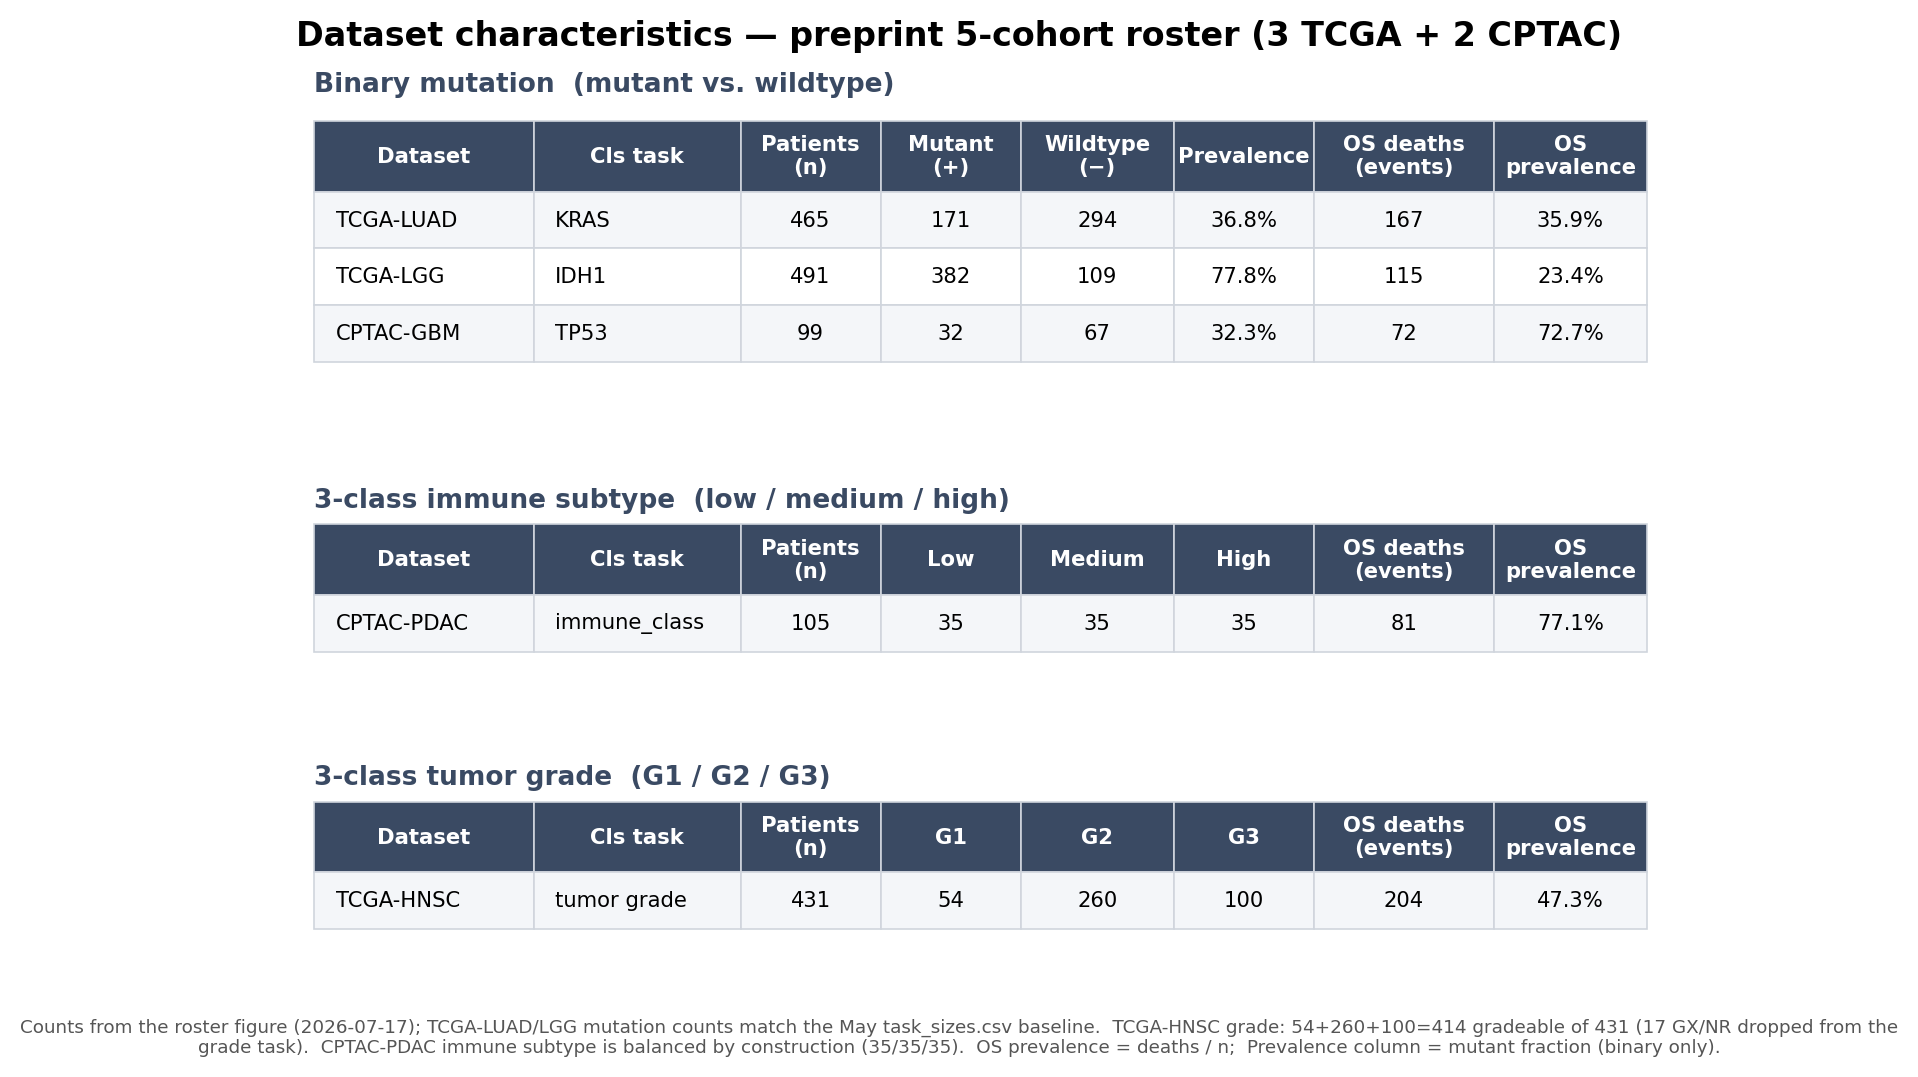
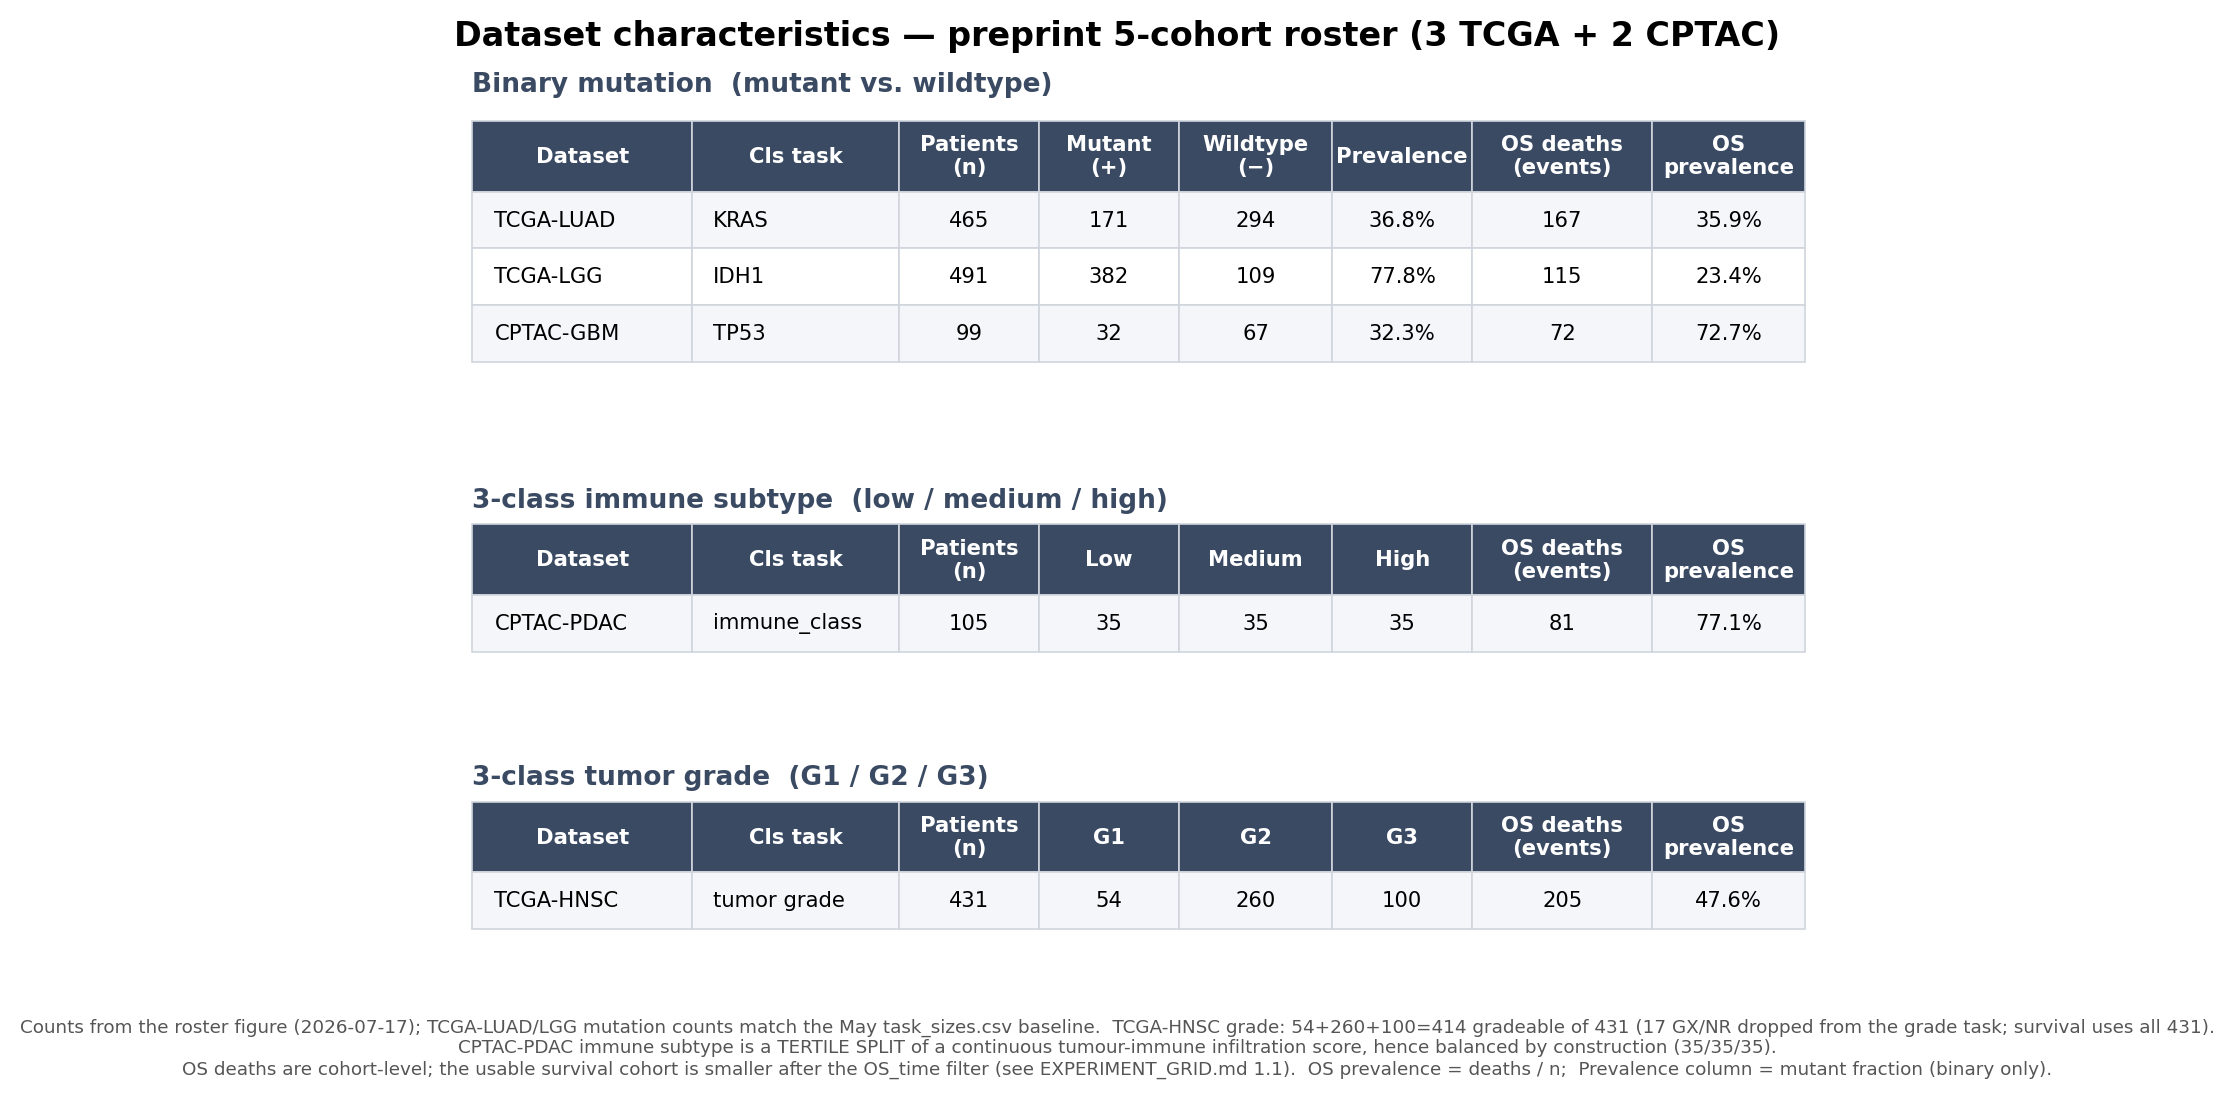
docs(preprint): reconcile roster numbers and reopen the regression premise
Three conflicts arose where the #35 doc reconciliation and the pre-launch review
met. All are in the preprint's roster tables, so they move together.

HNSC OS deaths read 204 in every roster table, but the review's manifest-derived
attrition table gives "431 / 205". 205 is the cohort count and 204 the
post-OS_time-filter usable count -- and the roster tables quote raw everywhere
else (LUAD 167, LGG 115), so 204 was simply wrong there. Corrected to 205 /
47.6% across PLAN, EXECUTION_PLAN, EXPERIMENT_GRID and the regenerated Table-1
figure; the attrition prose now notes HNSC loses a death too, not just LUAD/LGG.

The grid is 33 exps/dataset configured but 30 runnable today -- conch_v15 is
unextracted, so the TITAN arm has no inputs. Both figures now appear with the
distinction stated, which makes explicit that TITAN gates the encoder axis
rather than being optional.

Regression: #35 hardened the deferral to "unconditionally", but that premise had
only been tested against ovarian HRD. CPTAC-PDAC's immune_class is a tertile
split of a continuous infiltration score -- a binned continuous target already
in the roster. The ovarian half stays closed; whether PDAC's underlying score is
recoverable is now recorded as unchecked, with the consequence stated.

Also carries the review's Table-1 asks: HNSC shows 414 gradeable of 431, and
PDAC's 35/35/35 is disclosed as a tertile split rather than left looking
suspiciously balanced.

diff --git a/paper/preprint/figures/make_dataset_table.py b/paper/preprint/figures/make_dataset_table.py
@@ -94,7 +94,7 @@ IMMUNE = [
 ]
 # 3-class tumor grade:  (dataset, task, n, g1, g2, g3, os_deaths, os_pct)
 GRADE = [
-    ("TCGA-HNSC", "tumor grade", 431, 54, 260, 100, 204, 47.3),
+    ("TCGA-HNSC", "tumor grade", 431, 54, 260, 100, 205, 47.6),
 ]
 
 # 8 columns, shared width profile across all three sub-tables (sums ~1.0).
@@ -133,8 +133,11 @@ def table1():
                  fontsize=12, fontweight="bold", y=0.98)
     foot = ("Counts from the roster figure (2026-07-17); TCGA-LUAD/LGG mutation counts match the May "
             "task_sizes.csv baseline.  TCGA-HNSC grade: 54+260+100=414 gradeable of 431 (17 GX/NR "
-            "dropped from the\ngrade task).  CPTAC-PDAC immune subtype is balanced by construction "
-            "(35/35/35).  OS prevalence = deaths / n;  Prevalence column = mutant fraction (binary only).")
+            "dropped from the grade task; survival uses all 431).\nCPTAC-PDAC immune subtype is a TERTILE "
+            "SPLIT of a continuous tumour-immune infiltration score, hence balanced by construction "
+            "(35/35/35).\nOS deaths are cohort-level; the usable survival cohort is smaller after the "
+            "OS_time filter (see EXPERIMENT_GRID.md 1.1).  OS prevalence = deaths / n;  Prevalence "
+            "column = mutant fraction (binary only).")
     fig.text(0.5, 0.02, foot, ha="center", va="top", fontsize=6.6, color="#555")
     p = os.path.join(OUT, "table1_dataset_stats.png")
     fig.savefig(p, bbox_inches="tight")

diff --git a/paper/preprint/PLAN.md b/paper/preprint/PLAN.md
@@ -7,12 +7,13 @@ material: [`../references/`](../references/). Compiled 2026-07-01; §5 resolved
 2026-07-21. **Counts are owned by [`EXPERIMENT_GRID.md`](EXPERIMENT_GRID.md)** —
 where this file disagrees on a number, that one wins._
 
-> **Open items gating the campaign — see [`PRELAUNCH_REVIEW.md`](PRELAUNCH_REVIEW.md).**
-> Two decisions in this document are contradicted by our own evidence and are
-> **not yet resolved**: §3/§4's *encoder ≫ aggregator* headline (our 210-config
-> baseline measured the reverse on classification), and §2's claim that `ab_mil`
-> results already exist on disk (coverage is essentially zero). The review also
-> records two survival bugs found and fixed on 2026-07-21.
+> **Open item gating the campaign — see [`PRELAUNCH_REVIEW.md`](PRELAUNCH_REVIEW.md).**
+> One decision in this document is contradicted by our own evidence and is
+> **not yet resolved**: §3/§4's *encoder ≫ aggregator* headline — our 210-config
+> baseline measured the reverse on classification (encoder spread 2.0 pts vs
+> aggregator 3.0 pts). See PRELAUNCH_REVIEW §3, item O1. That review also flagged §2's
+> `ab_mil` "free re-aggregation" claim; **that one is now fixed** — §2 below
+> budgets both additions as from-scratch training.
 
 ## Status: confirmed pivot
 
@@ -33,7 +34,7 @@ across two data sources:
 | TCGA-LGG | TCGA | IDH1 mutation | binary | 491 | 115 |
 | CPTAC-GBM | CPTAC | TP53 mutation | binary | 99 | 72 |
 | CPTAC-PDAC | CPTAC | immune subtype (low/med/high) | 3-class | 105 | 81 |
-| TCGA-HNSC | TCGA | tumor grade (G1/G2/G3) | 3-class | 431 | 204 |
+| TCGA-HNSC | TCGA | tumor grade (G1/G2/G3) | 3-class | 431 (414 gradeable) | 205 |
 
 Selection now prioritizes **classification-task diversity** (binary mutation +
 3-class immune subtype + 3-class tumor grade) and **cross-source coverage**
@@ -214,13 +215,24 @@ items.)
   chosen per cohort. Too much new surface for the fast preprint; lands in
   Phase 2.
 
-  *The exception that could have pulled it in is now closed.* The candidate was
-  **ovarian HRD** — natively a continuous genomic-scar score. The 2026-07-03
-  audit killed it twice over: `HRD_label` is a **pre-binarized 0/1 manifest
-  column** with no threshold or regression logic anywhere in the code, and the
-  ovarian data root is **not on fir** at all. Ovarian is also not one of the 5
-  roster cohorts. Regression is Phase 2, unconditionally. See
-  [`EXECUTION_PLAN.md`](EXECUTION_PLAN.md) §0.
+  *The ovarian exception is closed; a second candidate is open.* The original
+  candidate was **ovarian HRD** — natively a continuous genomic-scar score. The
+  2026-07-03 audit killed it twice over: `HRD_label` is a **pre-binarized 0/1
+  manifest column** with no threshold or regression logic anywhere in the code,
+  and the ovarian data root is **not on fir** at all. Ovarian is also not one of
+  the 5 roster cohorts. See [`EXECUTION_PLAN.md`](EXECUTION_PLAN.md) §0.
+
+  **But the premise "no continuous target exists in any dataset" was only ever
+  tested against ovarian, and it does not survive contact with the roster.**
+  CPTAC-PDAC's `immune_class` is an exactly-balanced 35/35/35 tertile split of a
+  *continuous* tumour-immune infiltration score (PRELAUNCH_REVIEW §5 item 5) — i.e. a
+  binned continuous target sitting inside the preprint roster. Whether the
+  underlying score is recoverable from the CPTAC source has **not been checked**.
+  Two consequences: (a) the tertile derivation must be disclosed in Table 1
+  either way, and (b) if the score is recoverable, a single genuine regression
+  arm becomes cheap and the deferral should be revisited rather than asserted.
+  **Action: check the CPTAC-PDAC source for the continuous score before treating
+  the regression deferral as final.**
 
 ### 5. Agent search-space scope — the frozen data substrate
 
@@ -305,10 +317,12 @@ Defense-in-depth, cheapest first:
    diversity (binary mutation + 3-class immune subtype + 3-class grade) across
    TCGA + CPTAC; OS survival retained as a secondary axis on all five. Replaces
    the earlier survival-power roster (LUAD/LGG/SKCM/BLCA/COAD).
-2. **Regression — deferred to Phase 2 (see §4). CLOSED, unconditionally.** Not
-   in the preprint. The ovarian-HRD exception that could have pulled it in was
-   ruled out by the 2026-07-03 audit (HRD is pre-binarized; ovarian is off-cluster;
-   ovarian is not a roster cohort).
+2. **Regression — deferred to Phase 2 (see §4), but the premise needs one
+   check.** The ovarian-HRD exception is ruled out (HRD is pre-binarized; ovarian
+   is off-cluster and not a roster cohort). However CPTAC-PDAC's `immune_class` is
+   a tertile split of a continuous infiltration score — a binned continuous target
+   already in the roster. Check whether that score is recoverable from the CPTAC
+   source before calling the deferral final.
 3. **One unmerged branch remains — narrower than this item once claimed.**
    - `feat/nnmil-survival` — **RESOLVED: merged.** The survival pipeline is on
      `main` (the branch no longer exists on `origin`), along with the roster

diff --git a/paper/preprint/EXPERIMENT_GRID.md b/paper/preprint/EXPERIMENT_GRID.md
@@ -23,7 +23,7 @@ see §6._
 | MIL aggregators | **4** — `clam_mb`, `simple_mil`, `abmil`, `dtfd_mil` |
 | Patch encoders | **3** — `uni_v2`, `virchow2`, `hoptimus1` |
 | Slide-encoder arm | **TITAN** (its own encoder + aggregator, linear probe) |
-| **Experiments / dataset** | **33** (30 tile-encoder + 3 TITAN) |
+| **Experiments / dataset** | **33** (30 tile-encoder + 3 TITAN) — but **30 today**: the 3 TITAN arms cannot run until `conch_v15` is extracted (§3.2) |
 | **Total experiments** | **165** |
 | **Total fold-trainings** (×5-fold) | **825** |
 | Static-grid compute | **≈ 40 GPU-hours ≈ ½–1 day on 4×H100** (possibly ~55 GPU-h — see the §3.1 caveat) |
@@ -51,7 +51,7 @@ across two data sources**; each cohort is pinned to a single classification task
 | TCGA-LGG | TCGA | IDH1 mutation | binary | 115 | [`tcga_lgg.yaml`](../../benchmarks/datasets/tcga/tcga_lgg.yaml) |
 | CPTAC-GBM | CPTAC | TP53 mutation | binary | 72 | [`cptac_gbm.yaml`](../../benchmarks/datasets/cptac/cptac_gbm.yaml) |
 | CPTAC-PDAC | CPTAC | immune subtype | 3-class | 81 | [`cptac_pdac.yaml`](../../benchmarks/datasets/cptac/cptac_pdac.yaml) |
-| TCGA-HNSC | TCGA | tumor grade | 3-class | 204 | [`tcga_hnsc.yaml`](../../benchmarks/datasets/tcga/tcga_hnsc.yaml) |
+| TCGA-HNSC | TCGA | tumor grade | 3-class | 205 | [`tcga_hnsc.yaml`](../../benchmarks/datasets/tcga/tcga_hnsc.yaml) |
 
 Selection prioritizes **classification-task diversity** (binary mutation +
 3-class immune subtype + 3-class tumor grade) and **cross-source coverage** (TCGA
@@ -86,14 +86,19 @@ tumor grade — matching each cohort's class structure.
 
 | Dataset | Cls task | Patients (n) | G1 | G2 | G3 | OS deaths | OS prevalence |
 |---|---|--:|--:|--:|--:|--:|--:|
-| TCGA-HNSC | tumor grade | 431 | 54 | 260 | 100 | 204 | 47.3% |
+| TCGA-HNSC | tumor grade | 431 (414 gradeable) | 54 | 260 | 100 | 205 | 47.6% |
 
 - **⚑ TCGA-LGG polarity:** IDH1-mutant is the **majority** class (382/491, 78%) —
   gliomas are commonly IDH-mutant, so the power-limiting minority is the 109
   **wildtype** cases. This also explains LGG's high baseline AUC.
 - **Small-sample cohorts:** CPTAC-GBM (n=99) and CPTAC-PDAC (n=105) are the
   smallest, included on purpose to probe the small-sample noise-vs-memorization
-  regime. CPTAC-PDAC's immune subtype is balanced by construction (35/35/35).
+  regime. **CPTAC-PDAC's immune subtype is balanced by construction (35/35/35)
+  because it is a tertile split of a continuous tumour-immune infiltration
+  score** — disclose that derivation in the paper's Table 1. An exactly equal
+  3-way split presented without explanation reads as concealment; it also
+  means this task is a *binned continuous target*, which bears on the
+  regression deferral (see `PLAN.md` §4 and PRELAUNCH_REVIEW §5 item 5).
 - **TCGA-HNSC grade:** 54 + 260 + 100 = 414 gradeable of 431 patients; the 17
   GX / not-reported cases carry no grade label and drop from the grade task
   (survival still uses all 431).
@@ -114,8 +119,8 @@ tumor grade — matching each cohort's class structure.
   | TCGA-HNSC | 429 | 204 | 431 / 205 |
 
   **Quote the usable figures in any survival results table** — the OS-deaths
-  column above is the cohort-level count, which for LUAD/LGG overstates what
-  actually trains by 5 and 1 deaths. Attrition is now small (0.5–2.6%).
+  column above is the cohort-level count, which overstates what actually trains
+  by 5 (LUAD), 1 (LGG) and 1 (HNSC) deaths. Attrition is now small (0.5–2.6%).
 
   > **Provenance note.** Until 2026-07-21 these cohorts were materially smaller
   > (LUAD 399, LGG 445, HNSC 397) because `add_os_to_manifest.py` reduced the GDC
@@ -185,6 +190,14 @@ Why the survival column is uneven (all enforced in code, not by hand):
 | Classification only (5 ds) | 65 | 325 |
 | Survival only (5 ds) | 100 | 500 |
 | **Campaign (5 datasets)** | **165** | **825** |
+
+> **Configured vs. runnable today.** The 165/825 figures are the *configured*
+> grid — what `generate_all_experiments` emits from the committed YAMLs. Until
+> `conch_v15` features exist (§3.2), the TITAN arm has no inputs, so a launch
+> today yields **30 exps/dataset = 150 experiments / 750 fold-trainings** with an
+> empty TITAN row. TITAN is therefore a **launch gate for the encoder axis**, not
+> an optional extra: without it the encoder axis is three near-identical modern
+> ViT foundation models (see PRELAUNCH_REVIEW §3, items O1 and O3).
 
 > Reproduce: the `validate config` block inside
 > [`submit_benchmark.sh`](../../benchmarks/scripts/slurm/submit_benchmark.sh:78)

diff --git a/paper/preprint/EXECUTION_PLAN.md b/paper/preprint/EXECUTION_PLAN.md
@@ -112,7 +112,7 @@ PLAN.md §3's competitive table leans on **"built-in datasets & tasks (16 TCGA +
 | **TCGA-LGG** | TCGA / GOLDMARK | IDH1 | binary (mut/wt) | 491 | 77.8% | 115 | 23.4% |
 | **CPTAC-GBM** | CPTAC / Patho-Bench | TP53 | binary (mut/wt) | 99 | 32.3% | 72 | 72.7% |
 | **CPTAC-PDAC** | CPTAC / Patho-Bench | immune_class | 3-class (low/med/high) | 105 | balanced | 81 | 77.1% |
-| **TCGA-HNSC** | TCGA / GDC clinical | tumor grade | 3-class (G1/G2/G3) | 431 | — | 204 | 47.3% |
+| **TCGA-HNSC** | TCGA / GDC clinical | tumor grade | 3-class (G1/G2/G3) | 431 (414 gradeable) | — | 205 | 47.6% |
 
 **Rationale:** the roster prioritizes **classification-task diversity** (binary
 mutation + 3-class immune subtype + 3-class tumor grade) across **two data
